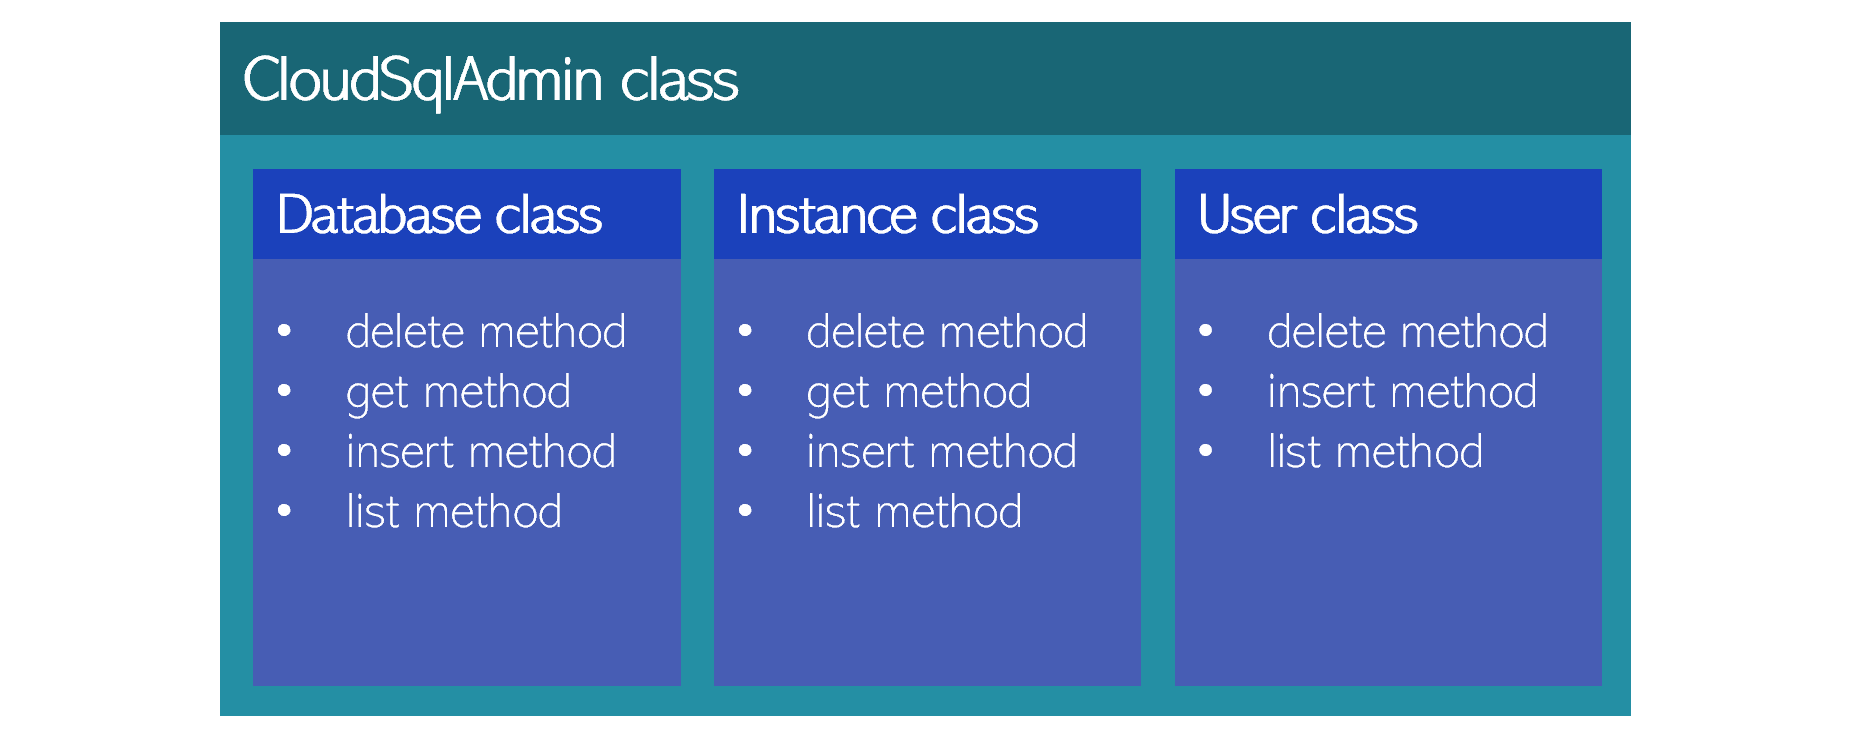
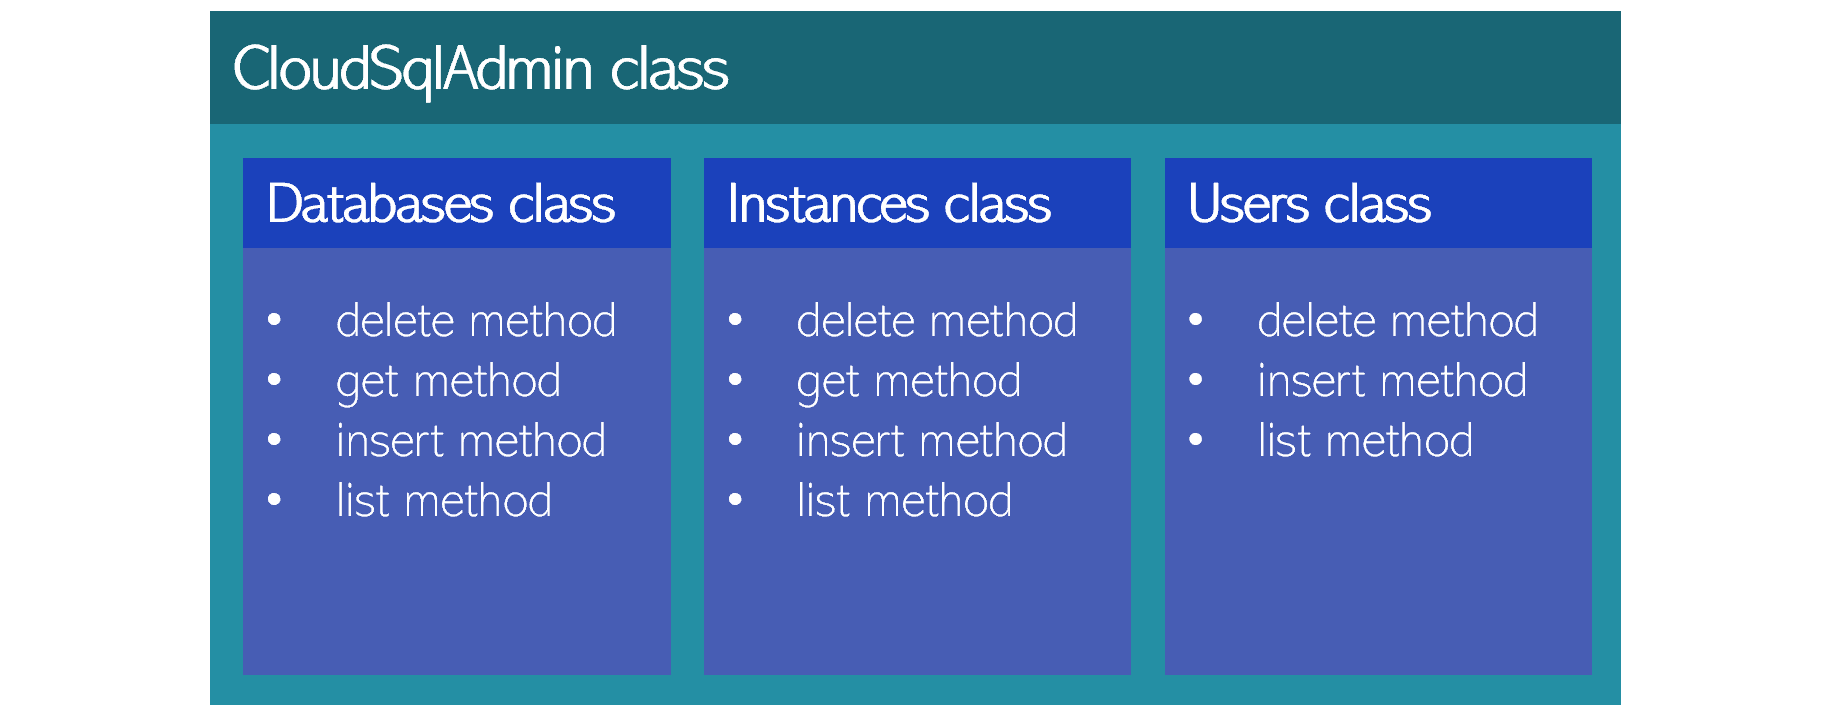
consistent pluralization of entity names

diff --git a/samples.py b/samples.py
@@ -11,9 +11,9 @@ from gcsql_admin import CloudSqlAdmin
 from config import MY_PROJECT, MY_INSTANCE
 
 
-def database_delete(project: str, instance: str, database: str):
+def databases_delete(project: str, instance: str, database: str):
     """Deletes a database from a Cloud SQL instance.
-    Demonstrates use of CloudSqlAdmin.database.delete() method.
+    Demonstrates use of CloudSqlAdmin.databases.delete() method.
 
     Args:
         project: name of the Cloud SQL project
@@ -24,16 +24,16 @@ def database_delete(project: str, instance: str, database: str):
         None. Database is deleted, and a summary is printed to the console.
     """
     sql_admin = CloudSqlAdmin()
-    if sql_admin.database.delete(project, instance, database):
+    if sql_admin.databases.delete(project, instance, database):
         print(f"database {database} deleted, status = {sql_admin.response['status']}")
     else:
         print(f"ERROR deleting database {database}!")
         print(sql_admin.response["error"])
 
 
-def database_get(project: str, instance: str, database: str):
+def databases_get(project: str, instance: str, database: str):
     """gets metadata for database in a Cloud SQL instance.
-    Demonstrates use of CloudSqlAdmin.database.get() method.
+    Demonstrates use of CloudSqlAdmin.databases.get() method.
 
     Args:
         project: name of the Cloud SQL project
@@ -44,14 +44,14 @@ def database_get(project: str, instance: str, database: str):
         None. Prints the database metadata to the console.
     """
     sql_admin = CloudSqlAdmin()
-    metadata = sql_admin.database.get(project, instance, database)
+    metadata = sql_admin.databases.get(project, instance, database)
     print(f"metadata for project {project}, instance {instance}, database {database}:")
     pprint(metadata)
 
 
-def database_insert(project: str, instance: str, database: str):
+def databases_insert(project: str, instance: str, database: str):
     """Inserts a new database in a Cloud SQL instance.
-    Demonstrates use of CloudSqlAdmin.database.insert() method.
+    Demonstrates use of CloudSqlAdmin.databases.insert() method.
 
     Args:
         project: name of the Cloud SQL project
@@ -63,24 +63,24 @@ def database_insert(project: str, instance: str, database: str):
     """
     sql_admin = CloudSqlAdmin()
 
-    if sql_admin.database.insert(project, instance, database):
+    if sql_admin.databases.insert(project, instance, database):
         print(f"Database created: {database}, status = {sql_admin.response['status']}")
     else:
         print(f"ERROR creating database: {sql_admin.response}")
 
 
-def database_insert_delete():
+def databases_insert_delete():
     """Inserts a new database, then deletes the database.
     """
-    database_insert(MY_PROJECT, MY_INSTANCE, "testdb")
-    database_get(MY_PROJECT, MY_INSTANCE, "testdb")
-    database_delete(MY_PROJECT, MY_INSTANCE, "testdb")
-    database_get(MY_PROJECT, MY_INSTANCE, "testdb")
+    databases_insert(MY_PROJECT, MY_INSTANCE, "testdb")
+    databases_get(MY_PROJECT, MY_INSTANCE, "testdb")
+    databases_delete(MY_PROJECT, MY_INSTANCE, "testdb")
+    databases_get(MY_PROJECT, MY_INSTANCE, "testdb")
 
 
-def database_list(project: str, instance: str):
+def databases_list(project: str, instance: str):
     """Prints a summary of the databases in a Cloud SQL instance.
-    Demonstrates use of CloudSqlAdmin.database.list() method.
+    Demonstrates use of CloudSqlAdmin.databases.list() method.
 
     Args:
         project: name of the Cloud SQL project
@@ -92,13 +92,13 @@ def database_list(project: str, instance: str):
     print(f"PROJECT/INSTANCE: {project} / {instance}")
 
     sql_admin = CloudSqlAdmin()
-    for database in sql_admin.database.list(project, instance):
+    for database in sql_admin.databases.list(project, instance):
         print(f"        Database: {database['name']}")
 
 
-def instance_delete(project: str, instance: str):
+def instances_delete(project: str, instance: str):
     """Deletes a Cloud SQL instance.
-    Demonstrates use of CloudSqlAdmin.instance.delete() method.
+    Demonstrates use of CloudSqlAdmin.instances.delete() method.
 
     Args:
         project: name of the Cloud SQL project
@@ -108,16 +108,16 @@ def instance_delete(project: str, instance: str):
         None. Instance is deleted, and a summary is printed to the console.
     """
     sql_admin = CloudSqlAdmin()
-    if sql_admin.instance.delete(project, instance):
+    if sql_admin.instances.delete(project, instance):
         print(f"instance {instance} deleted, status = {sql_admin.response['status']}")
     else:
         print(f"ERROR deleting instance {instance}!")
         print(sql_admin.response["error"])
 
 
-def instance_get(project: str, instance: str):
+def instances_get(project: str, instance: str):
     """gets metadata for a Cloud SQL instance.
-    Demonstrates use of CloudSqlAdmin.instance.get() method.
+    Demonstrates use of CloudSqlAdmin.instances.get() method.
 
     Args:
         project: name of the Cloud SQL project
@@ -127,16 +127,16 @@ def instance_get(project: str, instance: str):
         None. Prints the instance metadata to the console.
     """
     sql_admin = CloudSqlAdmin()
-    metadata = sql_admin.instance.get(project, instance)
+    metadata = sql_admin.instances.get(project, instance)
     print(f"metadata for project {project}, instance {instance}:")
     pprint(metadata)
 
 
-def instance_insert(
+def instances_insert(
     project: str, instance_name: str, root_password: str, database_type: str = "MySQL"
 ):
     """Creates a new Cloud SQL instance.
-    Demonstrates use of CloudSqlAdmin.instance.insert() method.
+    Demonstrates use of CloudSqlAdmin.instances.insert() method.
 
     Args:
         project: name of the Cloud SQL project
@@ -148,7 +148,7 @@ def instance_insert(
         None. instance is created, and a summary is printed to the console.
     """
     sql_admin = CloudSqlAdmin()
-    if sql_admin.instance.insert(
+    if sql_admin.instances.insert(
         project=project,
         instance_name=instance_name,
         root_password=root_password,
@@ -161,9 +161,9 @@ def instance_insert(
         print(f"ERROR creating instance {instance_name}: {sql_admin.response}")
 
 
-def instance_list(project: str):
+def instances_list(project: str):
     """Prints a summary of the list of Cloud SQL instances in a project.
-    Demonstrates use of CloudSqlAdmin.instance.list() method.
+    Demonstrates use of CloudSqlAdmin.instances.list() method.
 
     Args:
         project: name of the Cloud SQL project
@@ -174,7 +174,7 @@ def instance_list(project: str):
     print(f"PROJECT NAME: {project}")
 
     sql_admin = CloudSqlAdmin()
-    for instance in sql_admin.instance.list(project):
+    for instance in sql_admin.instances.list(project):
         print(f"Instance -->: {instance['name']}")
         print(f"  DB Version: {instance['databaseVersion']}")
         print(f"        Tier: {instance['settings']['tier']}")
@@ -188,7 +188,7 @@ def instance_state_polling(project: str, instance: str):
     start_time = default_timer()
     sql_admin = CloudSqlAdmin()
     while True:
-        metadata = sql_admin.instance.get(project, instance)
+        metadata = sql_admin.instances.get(project, instance)
         if "state" in metadata:
             state = metadata["state"]
         else:
@@ -218,9 +218,9 @@ def tiers_list(project: str):
     print(response)
 
 
-def user_delete(project: str, instance: str, host: str, username: str):
+def users_delete(project: str, instance: str, host: str, username: str):
     """Deletes a user from a Cloud SQL instance.
-    Demonstrates use of CloudSqlAdmin.user.delete() method.
+    Demonstrates use of CloudSqlAdmin.users.delete() method.
 
     Args:
         project: name of the Cloud SQL project
@@ -233,16 +233,16 @@ def user_delete(project: str, instance: str, host: str, username: str):
     """
     sql_admin = CloudSqlAdmin()
 
-    if sql_admin.user.delete(project, instance, host, username):
+    if sql_admin.users.delete(project, instance, host, username):
         print(f"user {username} deleted, status = {sql_admin.response['status']}")
     else:
         print(f"ERROR deleting user {username}!")
         print(sql_admin.response["error"])
 
 
-def user_insert(project: str, instance: str, host: str, username: str, password: str):
+def users_insert(project: str, instance: str, host: str, username: str, password: str):
     """Inserts a new user in a Cloud SQL instance.
-    Demonstrates use of CloudSqlAdmin.user.insert() method.
+    Demonstrates use of CloudSqlAdmin.users.insert() method.
 
     Args:
         project: name of the Cloud SQL project
@@ -256,17 +256,17 @@ def user_insert(project: str, instance: str, host: str, username: str, password:
     """
     sql_admin = CloudSqlAdmin()
 
-    if sql_admin.user.insert(project, instance, host, username, password):
+    if sql_admin.users.insert(project, instance, host, username, password):
         print(f"User created: {username}")
     else:
         print(f"ERROR inserting user: {sql_admin.response}")
 
 
-def user_insert_delete():
+def users_insert_delete():
     """Inserts a new user, then deletes the user.
     """
 
-    user_insert(
+    users_insert(
         project=MY_PROJECT,
         instance=MY_INSTANCE,
         host="localhost",
@@ -274,18 +274,18 @@ def user_insert_delete():
         password=str(uuid.uuid4()),
     )
 
-    user_list(MY_PROJECT, MY_INSTANCE)  # this list will include testuser
+    users_list(MY_PROJECT, MY_INSTANCE)  # this list will include testuser
 
-    user_delete(
+    users_delete(
         project=MY_PROJECT, instance=MY_INSTANCE, host="localhost", username="testuser"
     )
 
-    user_list(MY_PROJECT, MY_INSTANCE)  # this list will not include testuser
+    users_list(MY_PROJECT, MY_INSTANCE)  # this list will not include testuser
 
 
-def user_list(project: str, instance: str):
+def users_list(project: str, instance: str):
     """Prints a summary of the users in a Cloud SQL instance.
-    Demonstrates use of CloudSqlAdmin.user.list() method.
+    Demonstrates use of CloudSqlAdmin.users.list() method.
 
     Args:
         project: name of the Cloud SQL project
@@ -297,16 +297,16 @@ def user_list(project: str, instance: str):
     print(f"PROJECT/INSTANCE: {project} / {instance}")
 
     sql_admin = CloudSqlAdmin()
-    for user in sql_admin.user.list(project, instance):
+    for user in sql_admin.users.list(project, instance):
         print(f"       User Name: {user['name']}")
 
 
 if __name__ == "__main__":
     # typical examples of running the samples:
-    # database_insert_delete()
-    # database_list(MY_PROJECT, MY_INSTANCE)
-    # instance_get(MY_PROJECT, MY_INSTANCE)
-    # instance_list(MY_PROJECT)
-    # tiers_list(MY_PROJECT)
-    # user_insert_delete()
+    # databases_insert_delete()
+    databases_list(MY_PROJECT, MY_INSTANCE)
+    # instances_get(MY_PROJECT, MY_INSTANCE)
+    instances_list(MY_PROJECT)
+    tiers_list(MY_PROJECT)
+    # users_insert_delete()
     pass

diff --git a/gcsql_admin.py b/gcsql_admin.py
@@ -17,16 +17,16 @@ class CloudSqlAdmin:
         """
 
         # Add the contained objects for entity-specific functionality.
-        self.database = Database(self)
-        self.instance = Instance(self)
-        self.user = User(self)
+        self.databases = Databases(self)
+        self.instances = Instances(self)
+        self.users = Users(self)
 
         self.service: googleapiclient.discovery.Resource = service_client()
 
         self.response: dict = {}  # response to the last API call
 
 
-class Database:
+class Databases:
     """Handles database API calls as a contained member of CloudSqlAdmin.
 
     This class contains methods to wrap API calls documented here:
@@ -152,7 +152,7 @@ class Database:
         return self.admin.response["items"]
 
 
-class Instance:
+class Instances:
     """Handles instance API calls as a contained member of CloudSqlAdmin.
 
     This class contains methods to wrap API calls documented here:
@@ -294,7 +294,7 @@ class Instance:
         return sql_instances
 
 
-class User:
+class Users:
     """Handles user API calls as a contained member of CloudSqlAdmin.
 
     This class contains methods to wrap API calls documented here:
@@ -405,7 +405,7 @@ def service_client(
     # and set the GOOGLE_APPLICATION_CREDENTIALS environment variable to
     # point to the app registration JSON for the service account.
 
-    # If the environment variable is not set but a filename has been specified,
+    # If the environment variable is not set but a filename has been specified
     # in the APP_CREDENTIALS setting in config.py, those credentials are used.
     # Note that APP_CREDENTIALS should contain the name of an app registration
     # JSON file in the current working directory.

diff --git a/helper-class.md b/helper-class.md
@@ -10,13 +10,13 @@ The [gcsql_admin.py](gcsql_admin.py) file in this repo contains a ```CloudSqlAdm
 
 ![CloudSqlAdmin architecture](images/CloudSqlAdmin.png)
 
-I've only implemented three of the entity-specific classes so far (Instance, Database, and User), including methods that simplify the [client library examples](admin-api.md) we looked at earlier.
+I've only implemented three of the entity-specific classes so far (Instances, Databases, and Users), including methods that simplify the [client library examples](admin-api.md) we looked at earlier.
 
 The basic concept is that you instantiate ```CloudSqlAdmin``` and then call an entity-specific method. For example, here's how you'd create a new user in a Cloud SQL instance:
 
 ```python
 sql_admin = CloudSqlAdmin()
-if sql_admin.user.insert(project, instance, host, username, password):
+if sql_admin.users.insert(project, instance, host, username, password):
     print(f"User created: {username}")
 else:
     print(f"ERROR inserting user: {sql_admin.response}")
@@ -28,7 +28,7 @@ Here's another example, showing how to get all of the instances in a project wit
 
 ```python
 sql_admin = CloudSqlAdmin()
-for instance in sql_admin.instance.list(project):
+for instance in sql_admin.instances.list(project):
     print(f"Instance: {instance['name']}")
 ```
 
